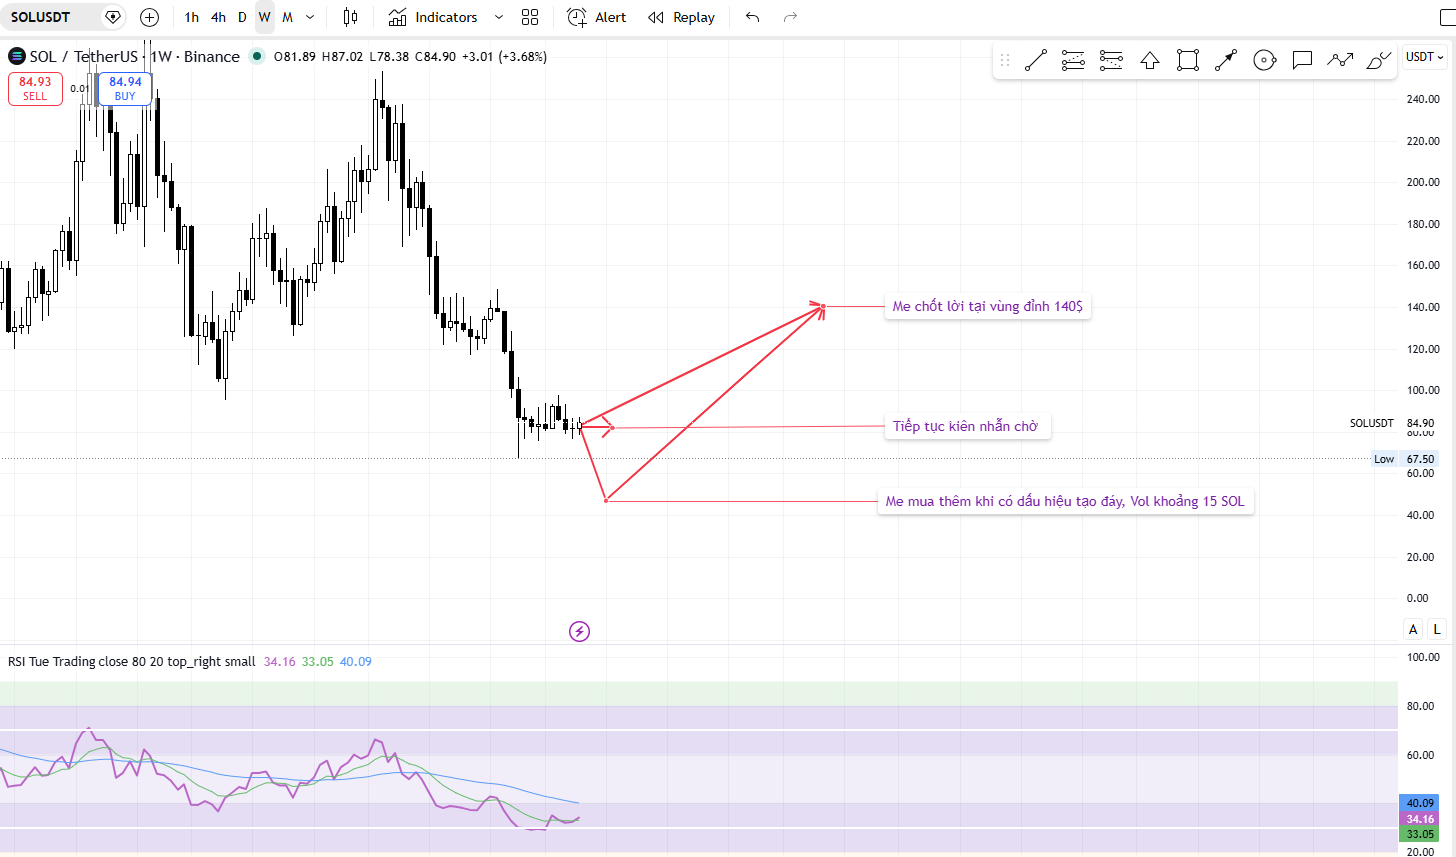
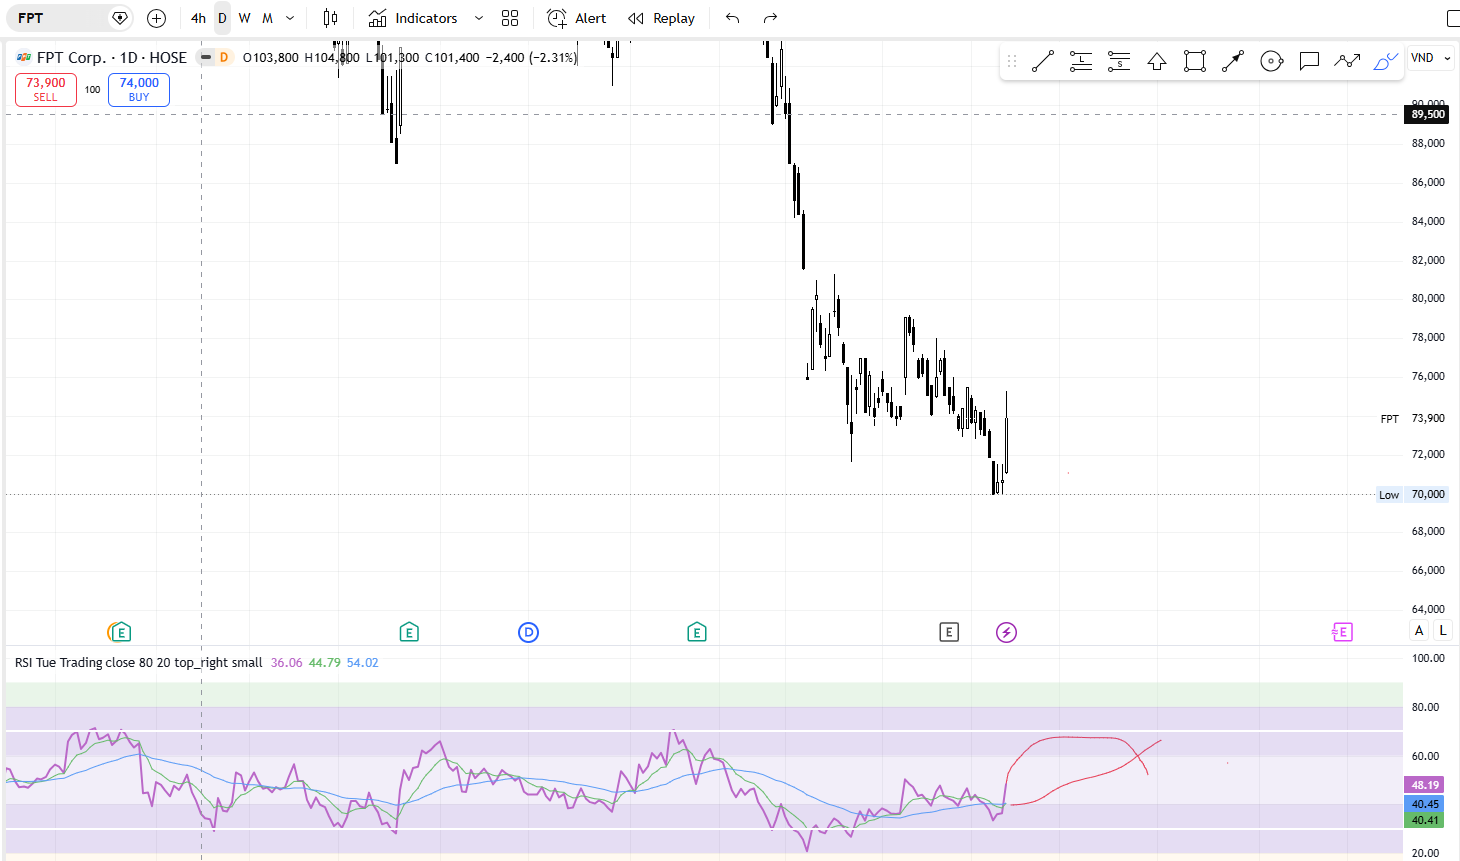
nguyen tac

diff --git a/src/app/(pages)/principles/page.tsx b/src/app/(pages)/principles/page.tsx
@@ -1,0 +1,80 @@
+"use client";
+import { ContentLayout } from "@/components/admin-panel/content-layout";
+import { InfoCard } from "@/components/technical-analysis/InfoCard";
+import { ImageGallery } from "@/components/technical-analysis/ImageGallery";
+import { InfoModal } from "@/components/technical-analysis/InfoModal";
+import { auth } from "@/firebaseConfig";
+import { useSidebar } from "@/hooks/use-sidebar";
+import { useStore } from "@/hooks/use-store";
+import { onAuthStateChanged } from "firebase/auth";
+import { useRouter } from "next/navigation";
+import { useEffect, useState } from "react";
+import { quintessenceRsi } from "./data";
+import { CARD_DATA } from "./constants";
+
+type ModalType = "rsi" | "support" | "trap" | "excess" | "break" | "rsi-h4" | "rsi-d" | "rsi-h1";
+
+export default function TechnicalAnalysisPage() {
+  const [activeModal, setActiveModal] = useState<ModalType | null>(null);
+  const sidebar = useStore(useSidebar, (x) => x);
+  const router = useRouter();
+
+  useEffect(() => {
+    const unsubscribe = onAuthStateChanged(auth, (currentUser) => {
+      if (!currentUser) router.push("/");
+    });
+    return () => unsubscribe();
+  }, [router]);
+
+  if (!sidebar) return null;
+
+  const handleCardClick = (modalType: ModalType) => setActiveModal(modalType);
+  const handleCloseModal = () => setActiveModal(null);
+
+  const renderModal = () => {
+    if (!activeModal) return null;
+
+    const card = CARD_DATA.find((c) => c.modalType === activeModal);
+    if (!card) return null;
+
+    if (activeModal === "rsi") {
+      return (
+        <InfoModal
+          isOpen={true}
+          onClose={handleCloseModal}
+          title={card.title}
+          items={quintessenceRsi}
+        />
+      );
+    }
+
+    if ('images' in card) {
+      return (
+        <ImageGallery
+          images={card.images}
+          title={card.title}
+          isOpen={true}
+          onClose={handleCloseModal}
+        />
+      );
+    }
+
+    return null;
+  };
+
+  return (
+    <ContentLayout title="RSI Indicator">
+      <div className="grid grid-cols-2 gap-4 mb-4">
+        {CARD_DATA.map((card, index) => (
+          <InfoCard
+            key={index}
+            title={card.title}
+            imageSrc={card.imageSrc}
+            onClick={() => handleCardClick(card.modalType)}
+          />
+        ))}
+      </div>
+      {renderModal()}
+    </ContentLayout>
+  );
+}

diff --git a/src/app/(pages)/principles/constants.ts b/src/app/(pages)/principles/constants.ts
@@ -1,0 +1,24 @@
+type BaseCard = {
+  title: string;
+  imageSrc: string;
+  modalType: "rsi" | "support" | "trap" | "excess" | "break" | "rsi-h4" | "rsi-d" | "rsi-h1";
+};
+
+type InfoCard = BaseCard & {
+  modalType: "rsi" | "support";
+};
+
+type GalleryCard = BaseCard & {
+  modalType: "trap" | "excess" | "break" | "rsi-h4" | "rsi-d" | "rsi-h1";
+  images: string[];
+};
+
+type CardData = InfoCard | GalleryCard;
+
+export const CARD_DATA: CardData[] = [
+  {
+    title: "Bộ quy tắc",
+    imageSrc: "/growth-29.png",
+    modalType: "rsi"
+  }
+];

diff --git a/src/lib/menu-list.ts b/src/lib/menu-list.ts
@@ -9,7 +9,7 @@ import {
   Usb,
   Ticket,
   Timer,
-  HeartPulse,
+  HeartPulse
 } from "lucide-react";
 
 type Submenu = {
@@ -42,12 +42,16 @@ export function getMenuList(pathname: string): Group[] {
           icon: AlignHorizontalDistributeCenter,
           submenus: [
             {
+              href: "/principles",
+              label: "Principles"
+            },
+            {
               href: "/strategy",
-              label: "Strategy",
+              label: "Strategy"
             },
             {
               href: "/trading-spot",
-              label: "Trading Spot Entry",
+              label: "Trading Spot Entry"
             },
             {
               href: "/rsi-indicator",
@@ -55,8 +59,8 @@ export function getMenuList(pathname: string): Group[] {
             },
             {
               href: "/pnl-report",
-              label: "PNL Report",
-            },
+              label: "PNL Report"
+            }
           ]
         }
       ]
@@ -80,7 +84,7 @@ export function getMenuList(pathname: string): Group[] {
             {
               href: "/dau-tay-2-den-3-tuoi",
               label: "Dâu Tây từ 2 đến 3 tuổi"
-            },
+            }
           ]
         }
       ]
@@ -205,6 +209,6 @@ export function getMenuList(pathname: string): Group[] {
           submenus: []
         }
       ]
-    },
+    }
   ];
 }

diff --git a/src/app/(pages)/principles/data.ts b/src/app/(pages)/principles/data.ts
@@ -1,0 +1,6 @@
+export const quintessenceRsi = [
+  "Tiền sử dụng trong đầu tư phải là tiền nhàn rỗi",
+  "Phải quản trị rủi ro bằng Stop Loss",
+  "Chỉ giao dịch SPOT những loại tài sản đã lựa chọn kĩ lưỡng",
+  "Giao dịch theo khung 1D, quan sát thêm các khung H4, 1W, 1M để xác định xu hướng và tìm điểm vào lệnh",
+];